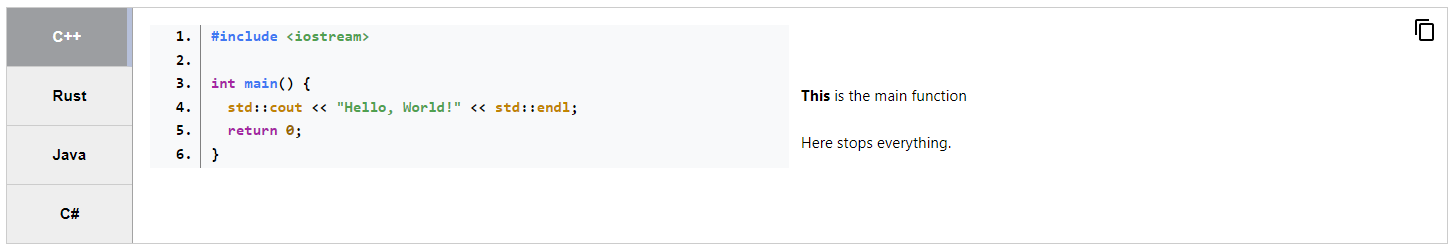
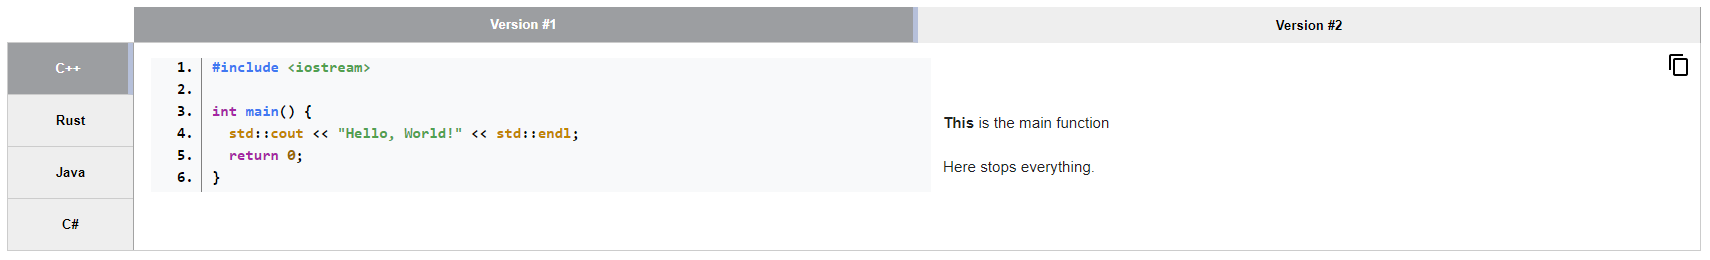
Changed the styles to be easier to be used.

diff --git a/resources/ext.multicodeblock/css/codeblock.css b/resources/ext.multicodeblock/css/codeblock.css
@@ -1,3 +1,7 @@
+.multicodeblock {
+    margin-top: calc(2em + 15px);
+}
+
 .code-table tbody tr pre {
     text-align: left;
 }
@@ -37,6 +41,33 @@
     border-right: 5px solid #b6c0da;
     background-color: #9c9ea1;
     color: #fff;
+}
+
+.outer.tab-content {
+    padding: 0;
+}
+
+.outer > .multicodeblock, .inner.tabs {
+    height: 100%;
+    border: none;
+    flex-direction: column;
+    margin-top: 0;
+}
+
+.inner.tab-content {
+    margin-top: calc(-2em - 10px);
+}
+
+.inner.tab-sidebar {
+    flex-direction: initial;
+    width: 100%;
+    display: flex;
+    height: fit-content;
+    transform: translateY(-100%);
+}
+
+.inner.tab-button {
+    padding: 10px;
 }
 
 .tab-content {

diff --git a/README.md b/README.md
@@ -8,8 +8,8 @@ Creates a codeblock consisting of multiple languages and a special way of commen
 The input is structured in a HTML-Style:
 * `<multicodeblock>` - This is the main body of the codeblock and directly calls `MultiCodeBlock::renderMultiCodeBlock` by MediaWiki
     * `<codeblock lang="<language>">"` - These are the different codeblocks (languages). The order of these codeblocks decides the order in the navigation. The `language` is the filetype and not the name of the programming language itself, but it is possible to use the name.
-        * `<code>` - This is the code itself and is going to be highlighted.
-        * `<desc>` - The description is a block of different blocks of the description.
+        * `<code>` - This is the code itself and is going to be highlighted. (There can be multiple code blocks)
+        * `<desc>` - The description is a block of different blocks of the description. (There can be multiple `desc`-Tags)
             * `<position line="<line-number>">` - The positions are holding the description itself the the starting point of the description (relative to the code). It is possible to write in Wiki-Syntax in these.
 
 So it would be something like this:
